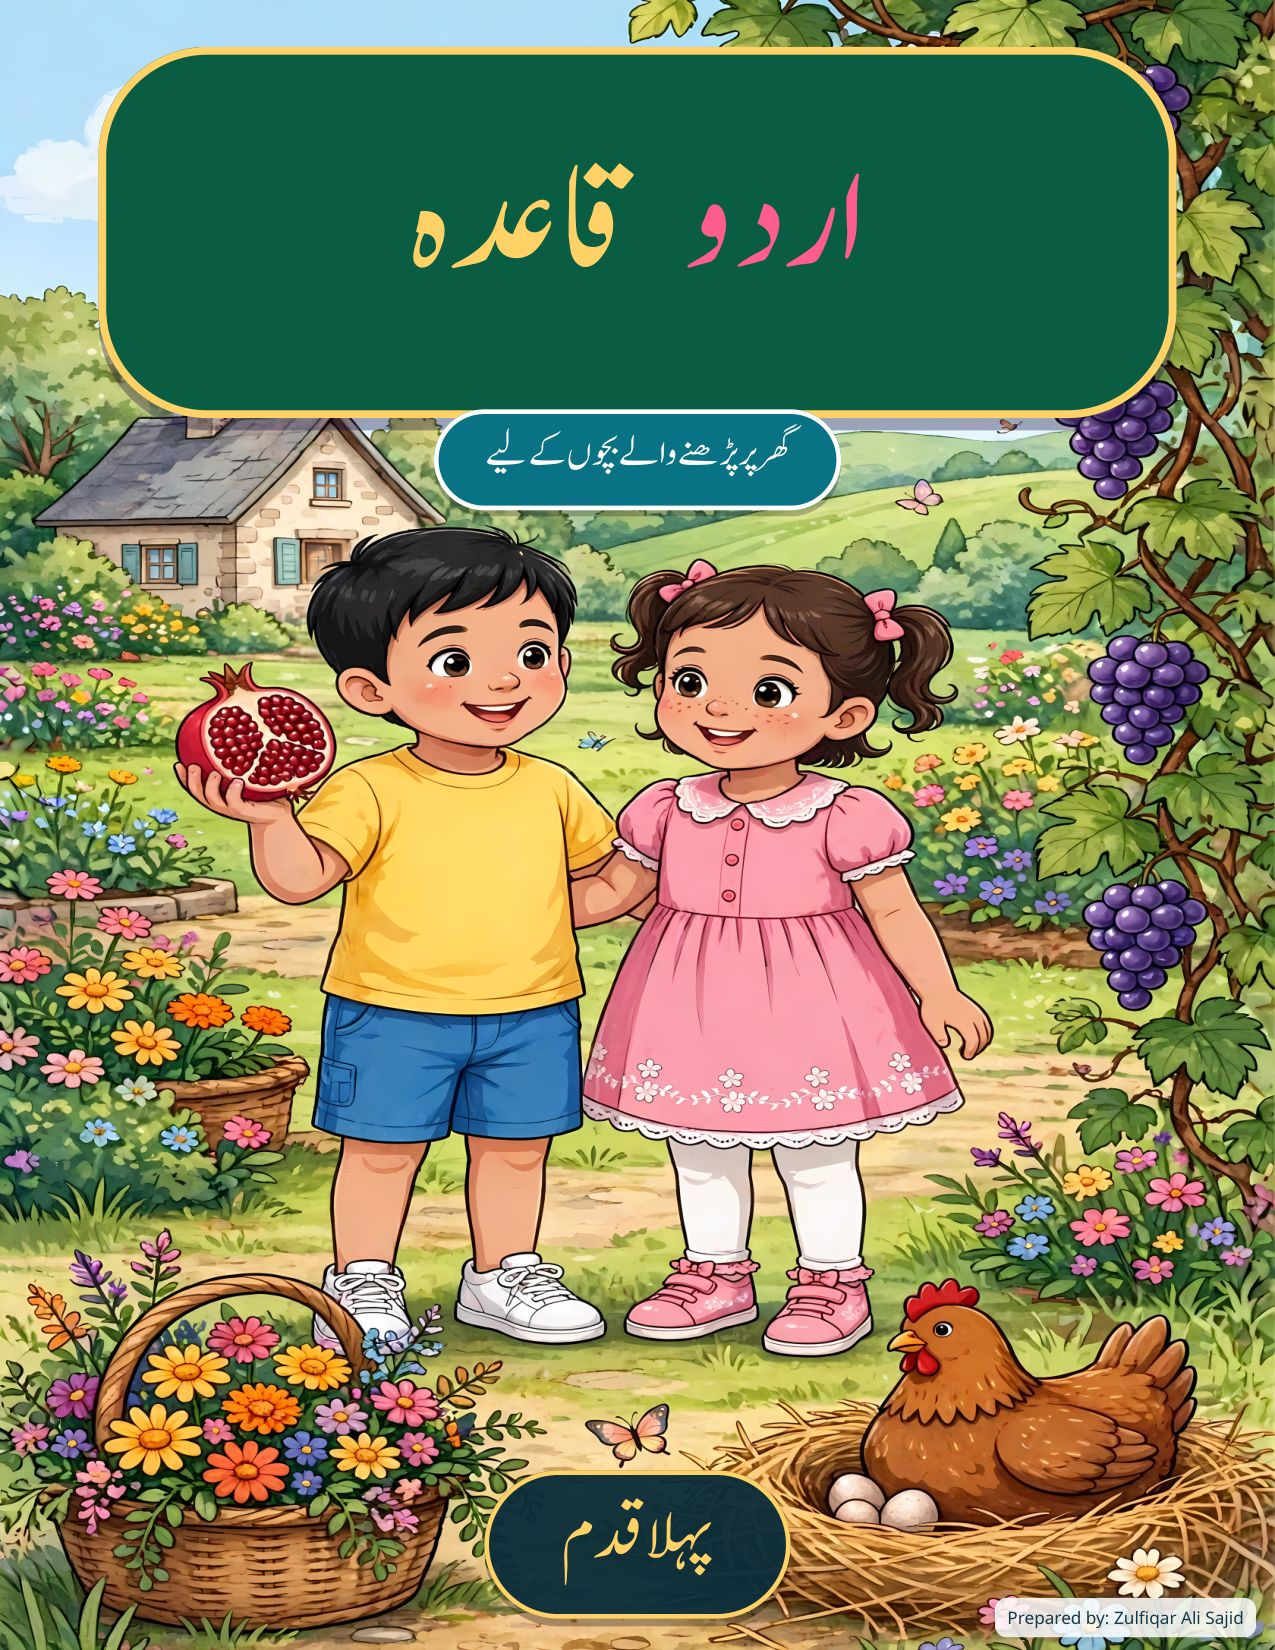
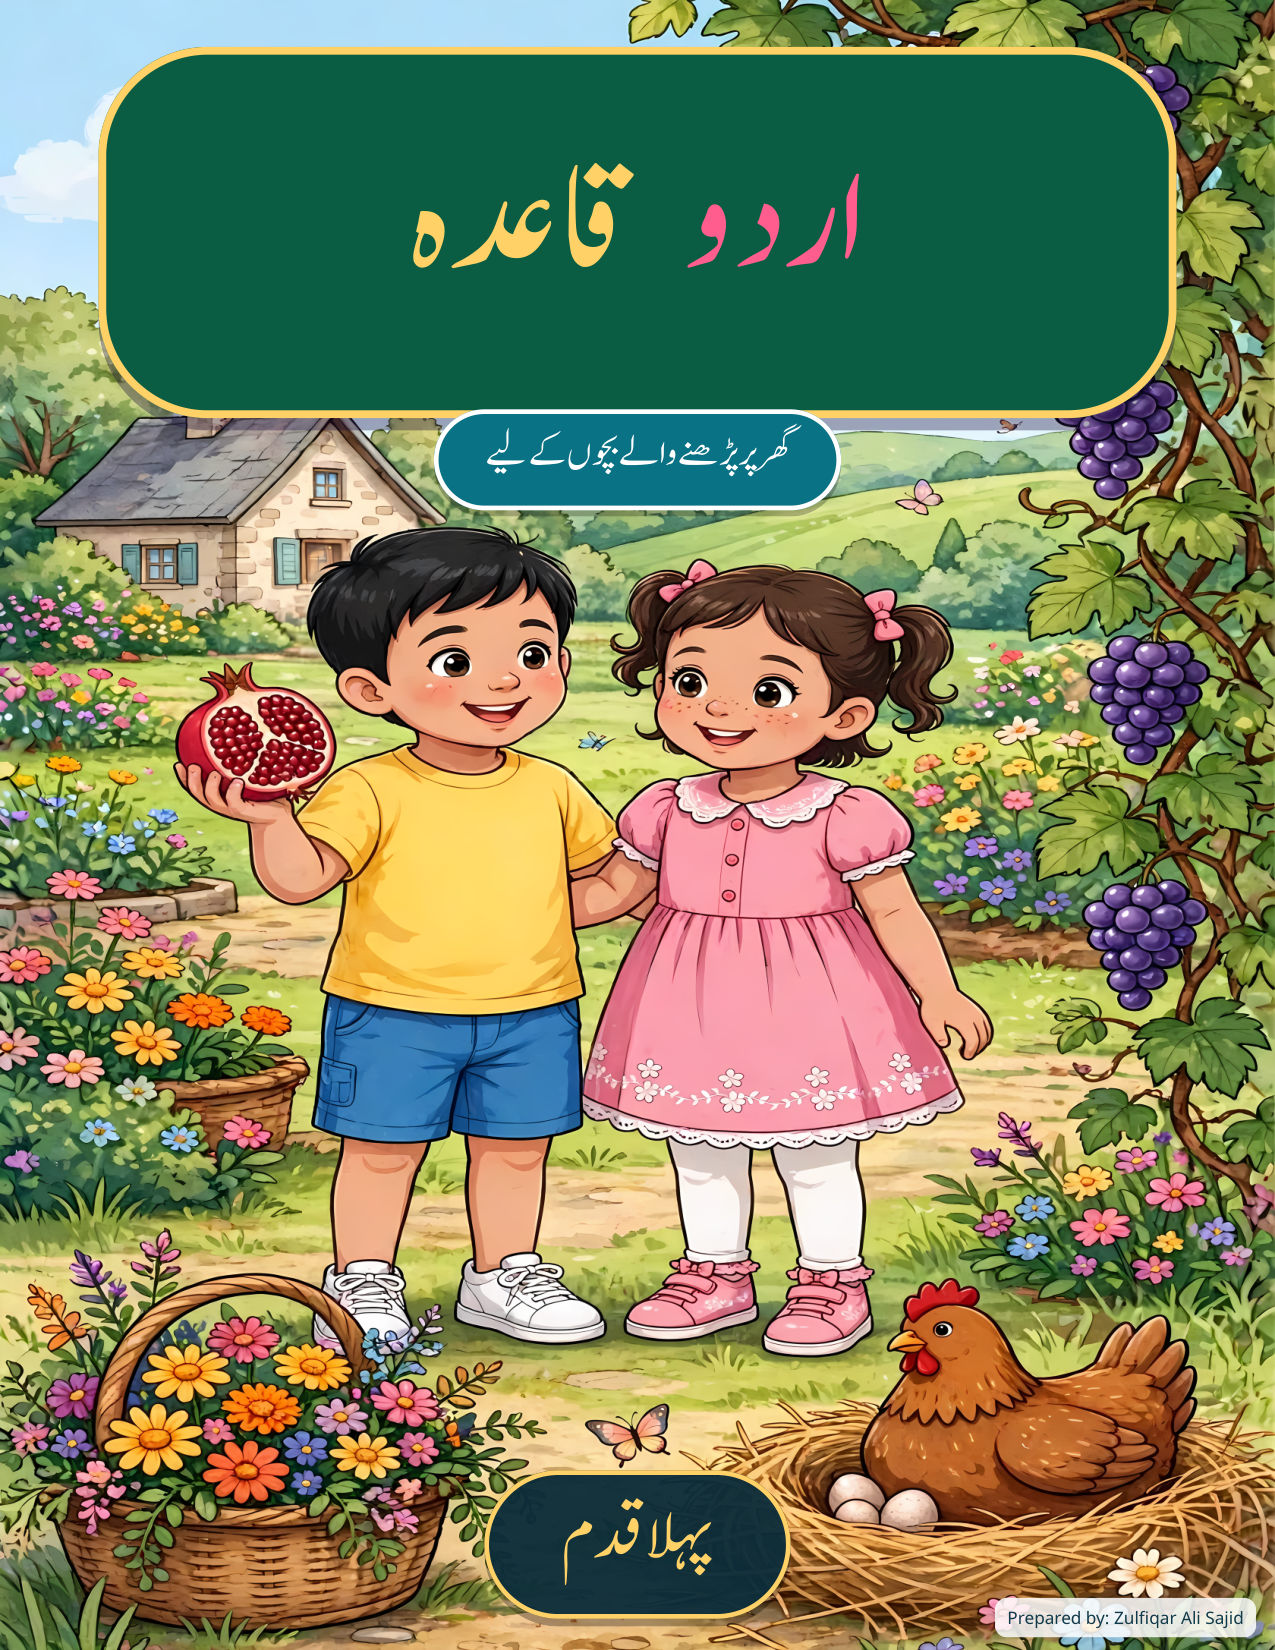
Full book: 40 pages (cover + 37 letters + chart + closing)

diff --git a/index.html b/index.html
@@ -176,7 +176,7 @@
 <script>
 (function(){
   "use strict";
-  var TOTAL = 2;
+  var TOTAL = 40;
   var RATIO = 1275 / 1650;               /* page width / height */
   var FLIP_MS = 600;                     /* full animated turn */
   var COMPLETE_AT = 0.35;                /* drag release past 35% completes */
